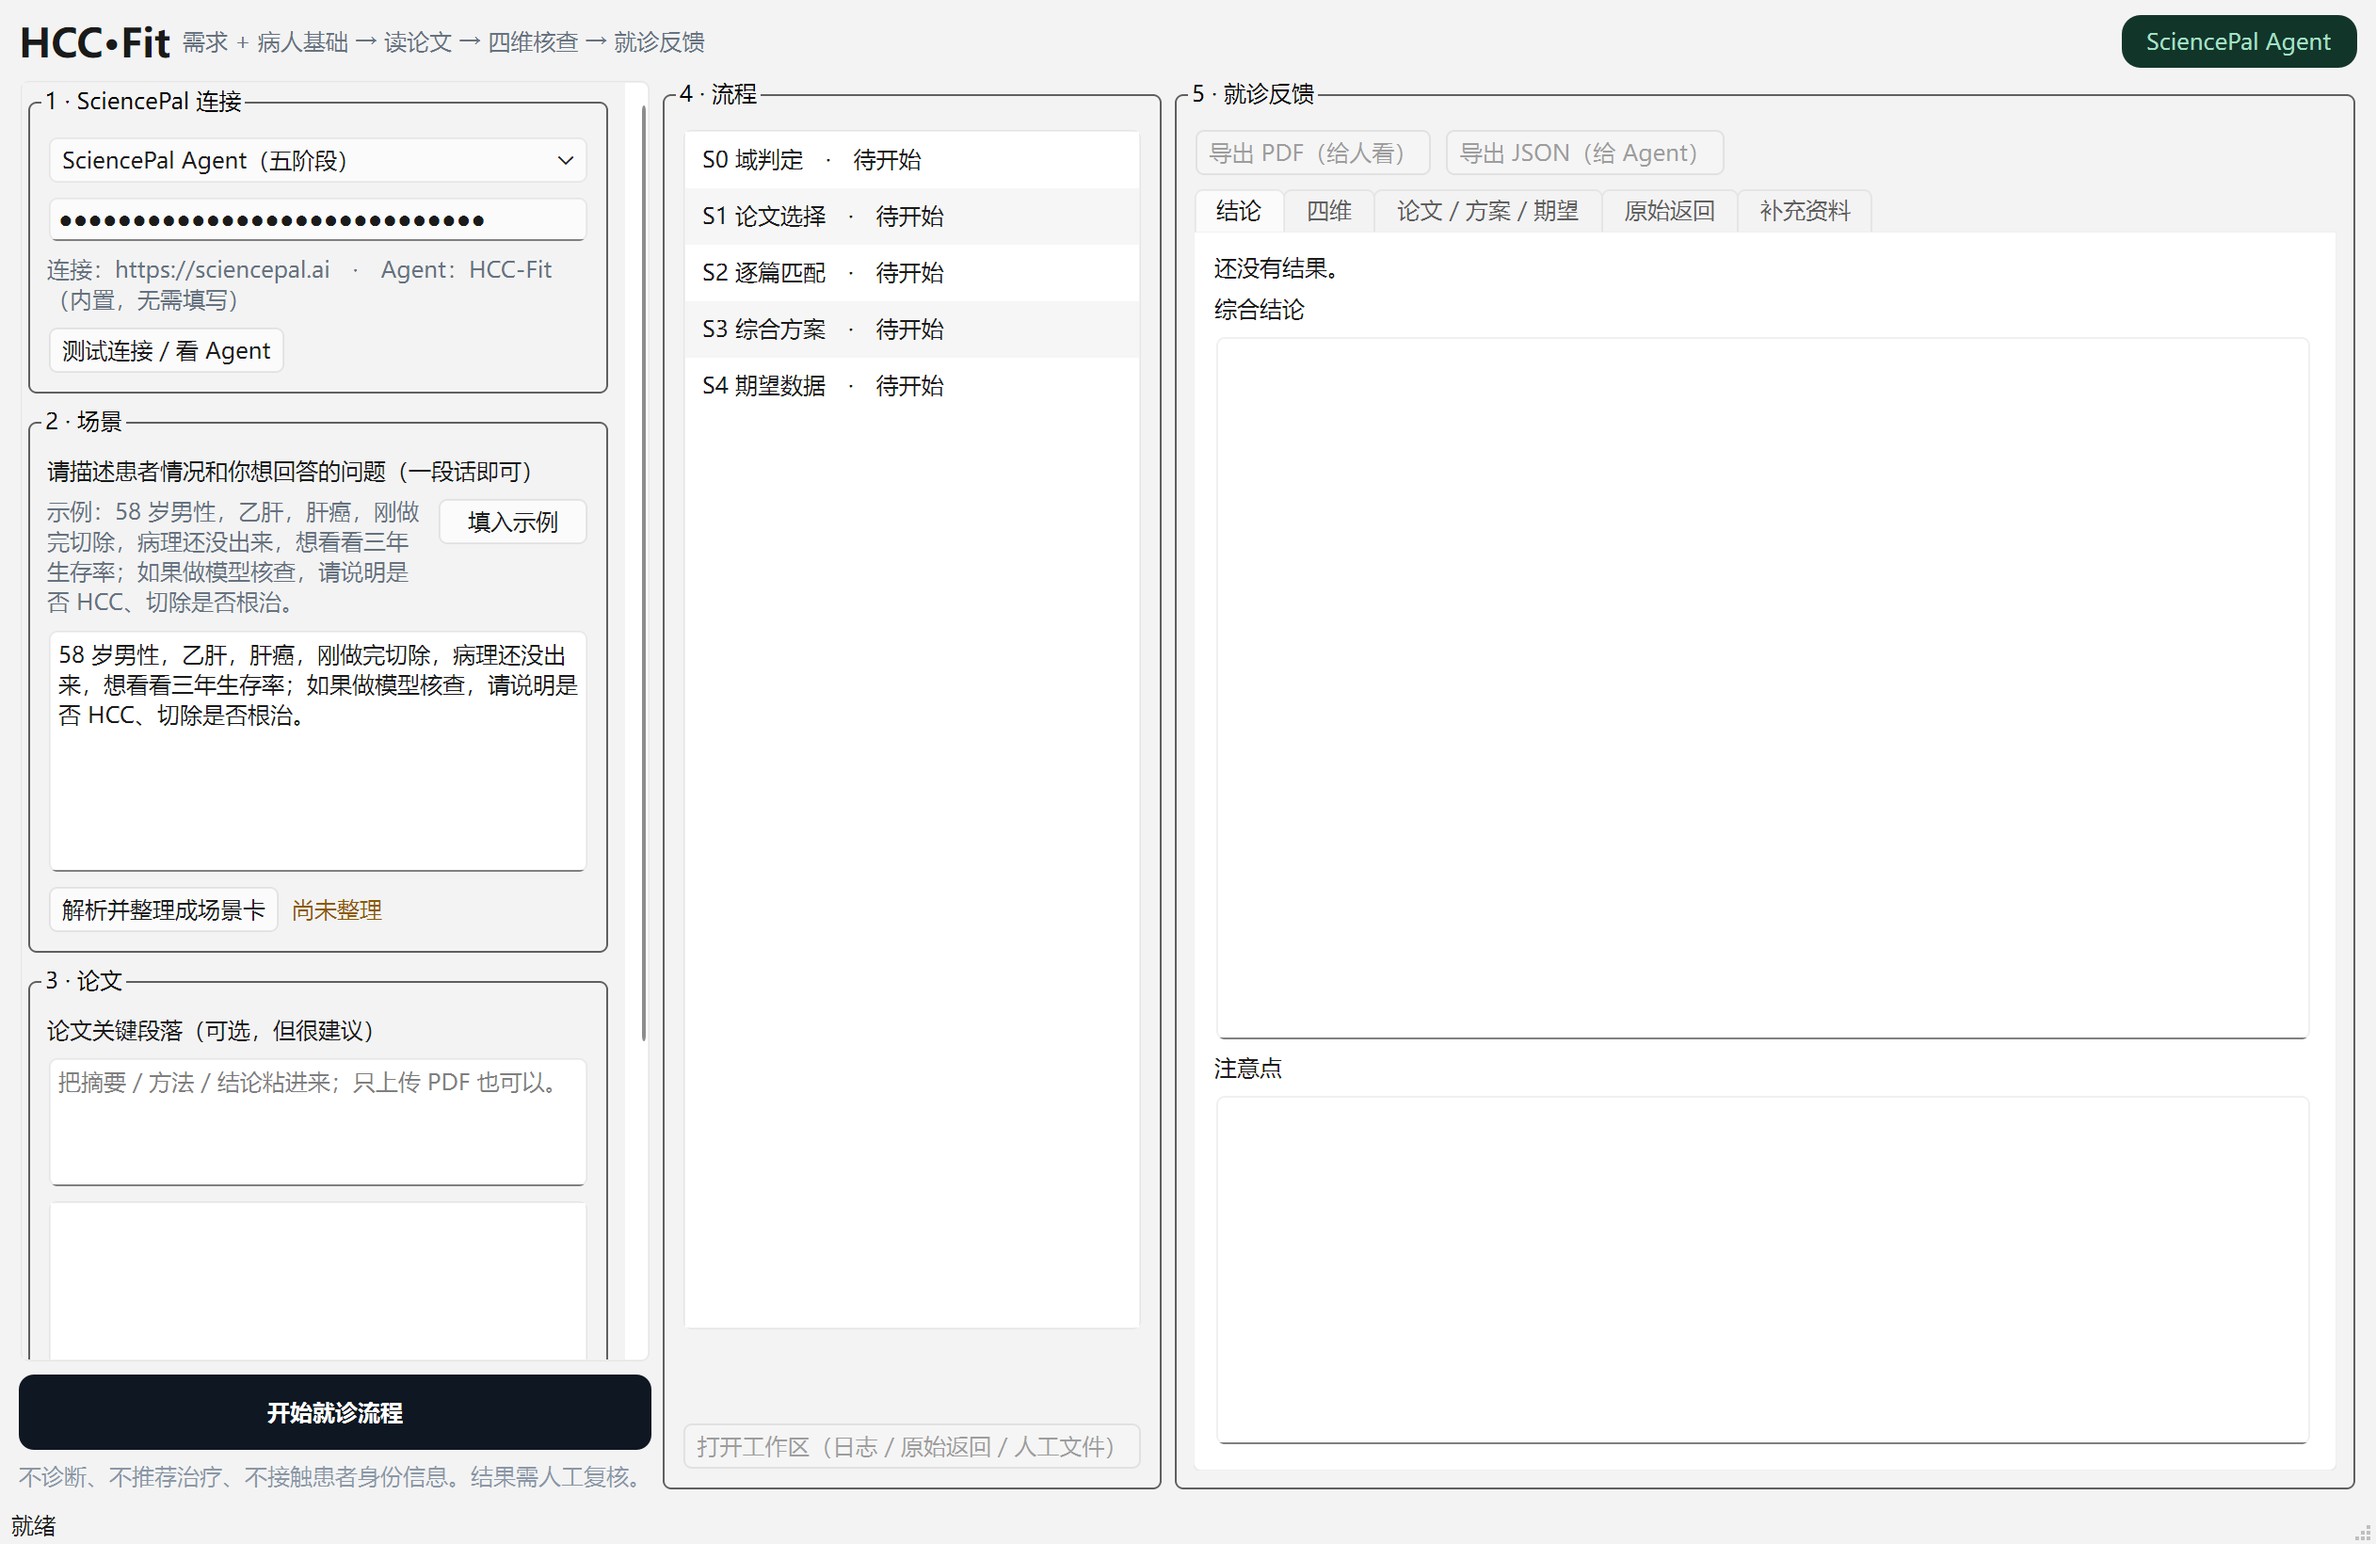
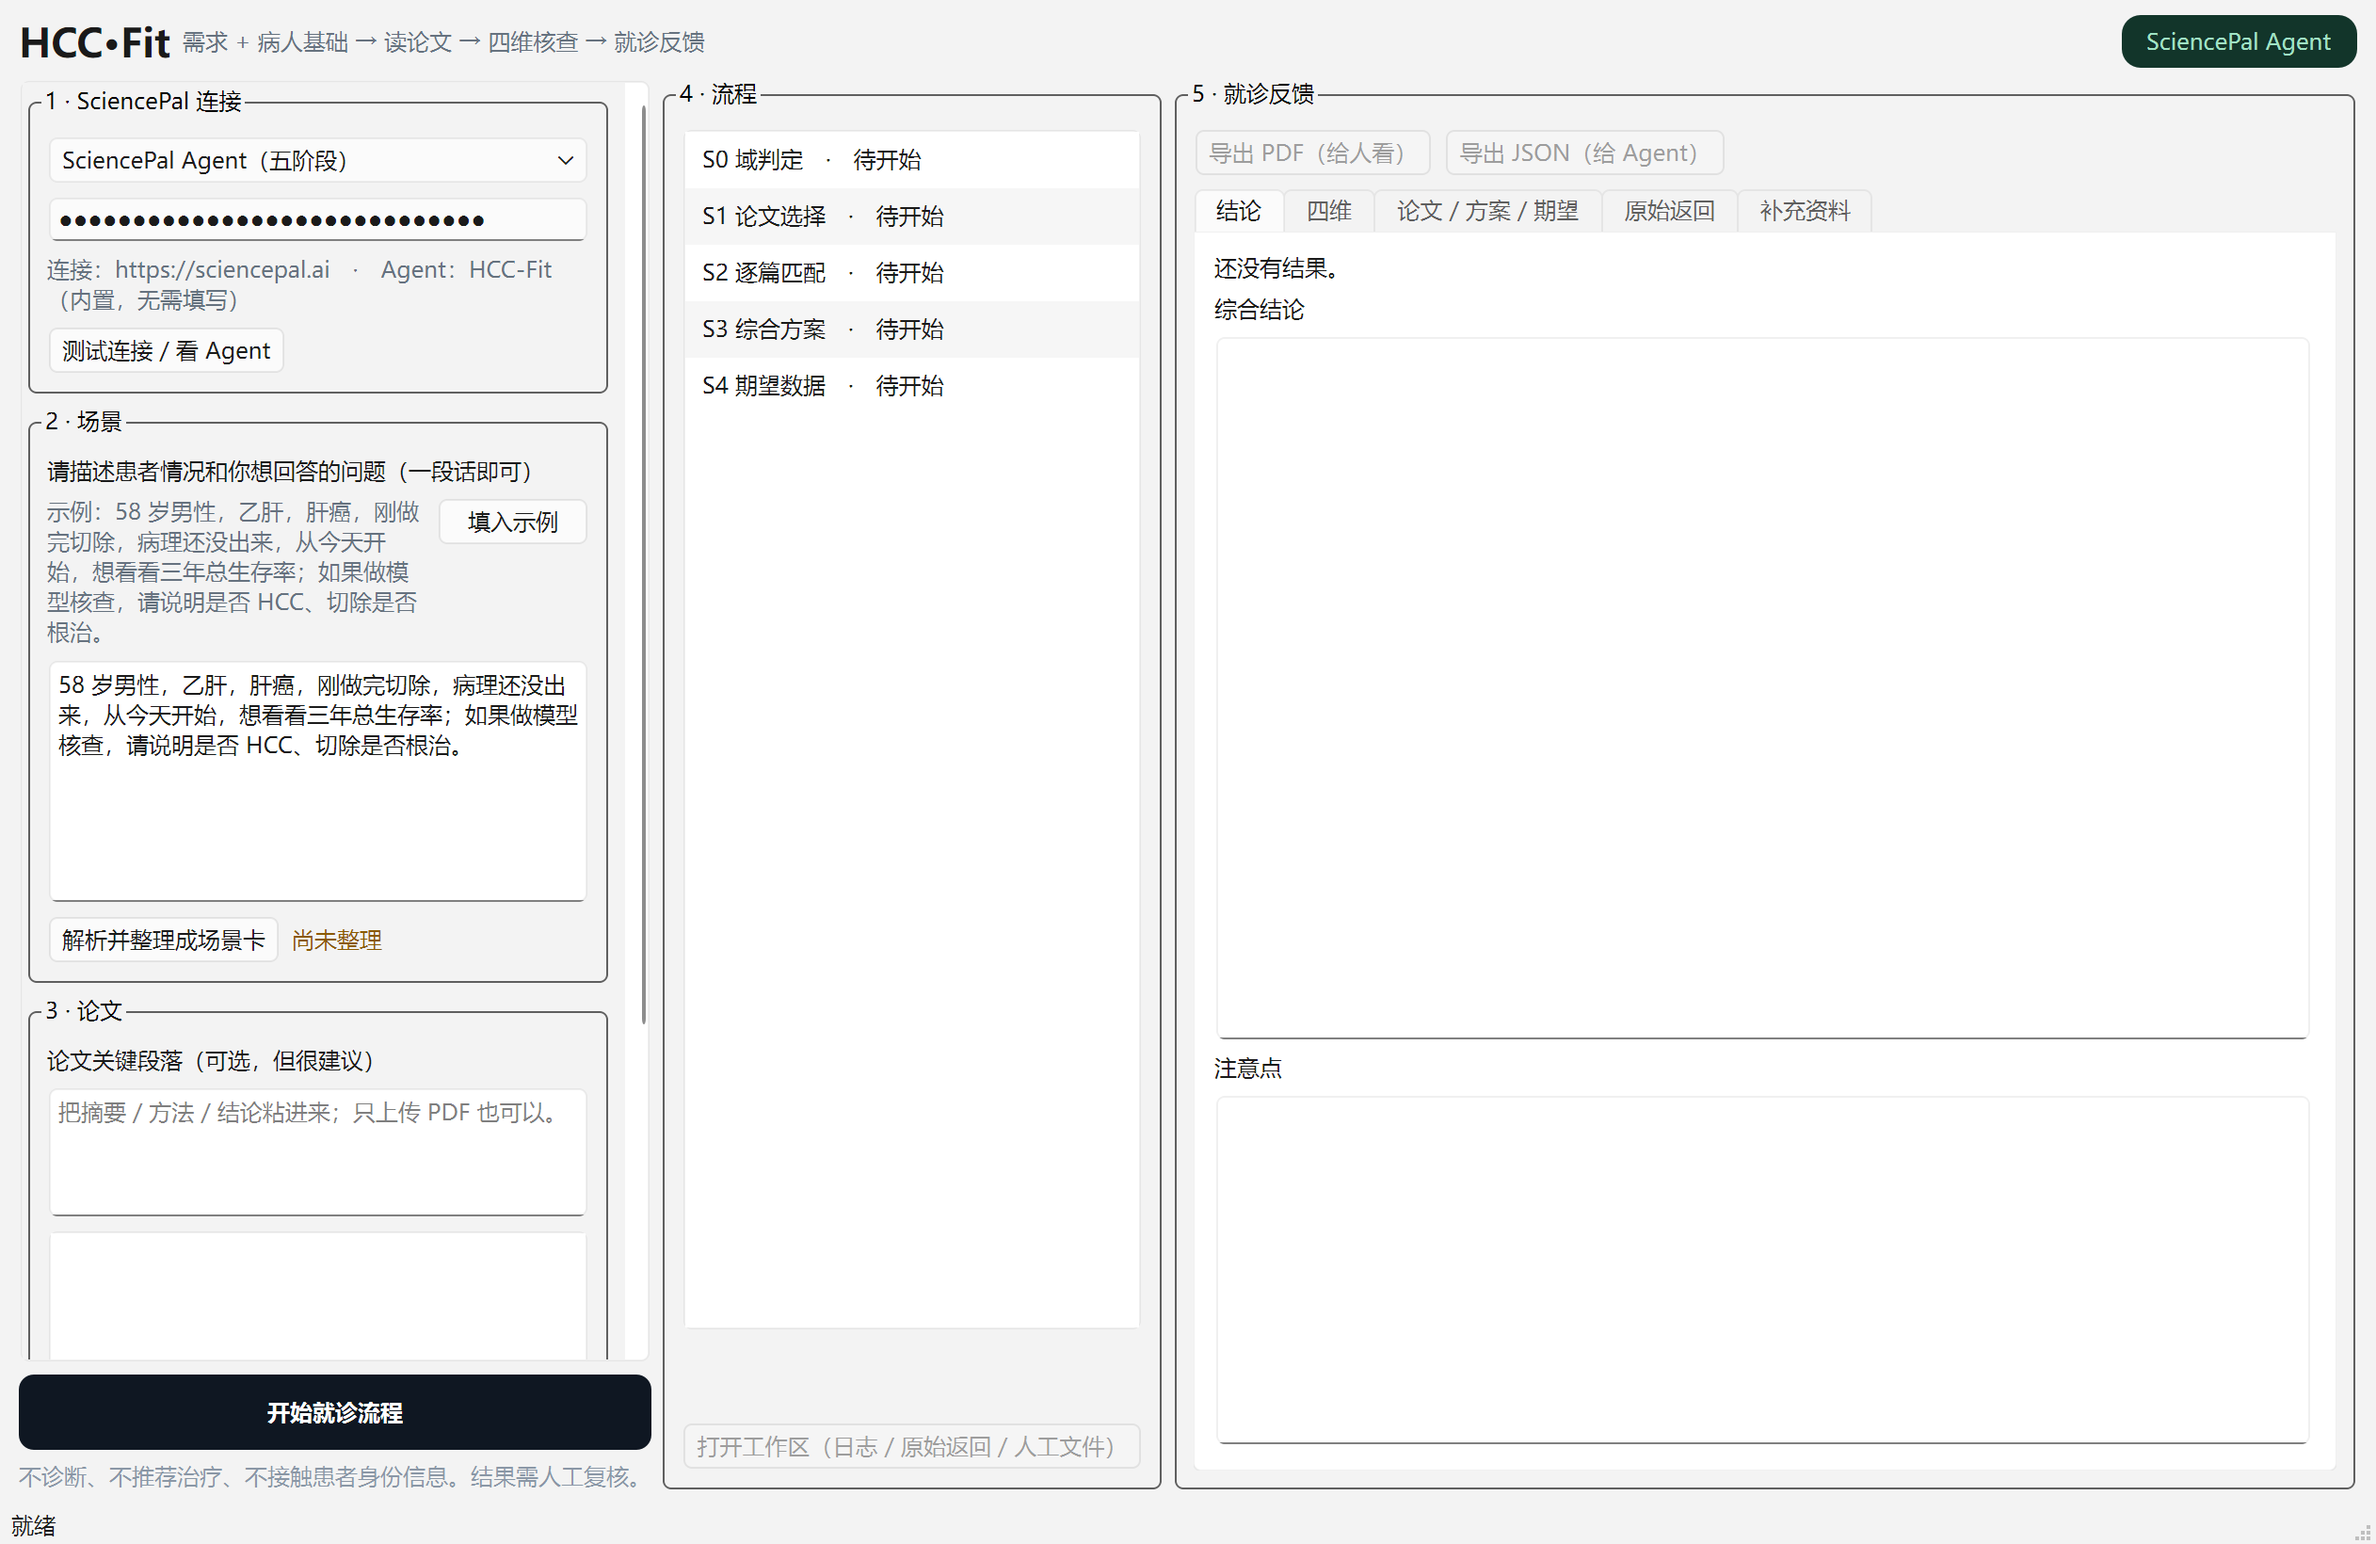
feat(input): 场景示例改为新版；修复“是否 HCC”被当成诊断
- 场景示例与“填入示例”改为：
  58 岁男性，乙肝，肝癌，刚做完切除，病理还没出来，从今天开始，想看看三年总生存率；
  如果做模型核查，请说明是否 HCC、切除是否根治。
- 新增 QUESTION_CUES：请说明/是否/有无/请确认 等“待确认表述”不再把疾病归一为 HCC，
  改为 ambiguous 并保留追问（此前示例句会被误判成已确认 HCC，跳过疾病追问）
- 测试：临床例子 +1（官方示例：只问疾病、起点今天、范围36、OS足够）→ 6/6；
  test_modes 断言示例文本与“填入示例”行为
- 截图/README/口述例子文档同步；重建 one-dir 并复验 --smoke

Changed region(s): [[0.0, 0.3421, 0.2472, 0.4976], [0.0, 0.5598, 0.2163, 0.7463]]

diff --git a/desktop/app/main_window.py b/desktop/app/main_window.py
@@ -162,8 +162,7 @@ class MainWindow(QMainWindow):
         sv.addWidget(QLabel("请描述患者情况和你想回答的问题（一段话即可）"))
         ex_row = QHBoxLayout()
         self.scene_example = QLabel(
-            "示例：58 岁男性，乙肝，肝癌，刚做完切除，病理还没出来，想看看三年生存率；"
-            "如果做模型核查，请说明是否 HCC、切除是否根治。")
+            "示例：58 岁男性，乙肝，肝癌，刚做完切除，病理还没出来，从今天开始，想看看三年总生存率；如果做模型核查，请说明是否 HCC、切除是否根治。")
         self.scene_example.setWordWrap(True)
         self.scene_example.setTextInteractionFlags(Qt.TextInteractionFlag.TextSelectableByMouse)
         self.scene_example.setStyleSheet("color:#66727f;font-size:9pt;")
@@ -519,8 +518,7 @@ class MainWindow(QMainWindow):
     # ---------------- 单输入场景卡 ----------------
     def _fill_scene_example(self):
         self.scene_input.setPlainText(
-            "58 岁男性，乙肝，肝癌，刚做完切除，病理还没出来，想看看三年生存率；"
-            "如果做模型核查，请说明是否 HCC、切除是否根治。")
+            "58 岁男性，乙肝，肝癌，刚做完切除，病理还没出来，从今天开始，想看看三年总生存率；如果做模型核查，请说明是否 HCC、切除是否根治。")
 
     def _on_scene_text_changed(self):
         if self._setting_scene:

diff --git a/desktop/app/input_normalization.py b/desktop/app/input_normalization.py
@@ -54,6 +54,7 @@ STATUS_LABEL = {
 
 HISTORY_CUES = ("既往", "曾", "以前", "病史", "多年前", "之前")
 SUSPECT_CUES = ("疑似", "考虑", "待排", "可能", "不除外", "疑为", "高度怀疑")
+QUESTION_CUES = ("是否", "是不是", "有无", "请确认", "需确认", "是否明确")
 NEG_CUES = ("非", "不是", "排除", "未见", "否认", "无", "未发现")
 
 _CN_NUM = {"一": 1, "二": 2, "两": 2, "三": 3, "四": 4, "五": 5,
@@ -440,6 +441,8 @@ class RuleExtractor:
                 return "historical"
             if _has(SUSPECT_CUES, prefix):
                 return "suspected"
+            if re.search(r"(?:%s)\s*$" % "|".join(QUESTION_CUES), prefix):
+                return "ambiguous"          # “请说明是否 HCC”不是诊断
             if _negated_prefix(prefix):
                 return "negated"
         return term.auto_status
@@ -526,6 +529,9 @@ class RuleExtractor:
                 f.flags.append("历史诊断不等于本次")
             elif status == "negated":
                 self._set(f, c, "negated", normalized="HCC 被否定")
+            elif status == "ambiguous":
+                self._set(f, c, "ambiguous", normalized="HCC（待确认）")
+                f.flags.append("原话是“是否 HCC”这类待确认表述")
             else:
                 self._set(f, c, "normalized", normalized="HCC")
             # 同时出现“肝癌”上位词：保留提示，不改变 HCC 结论

diff --git a/desktop/tests/test_clinical_examples.py b/desktop/tests/test_clinical_examples.py
@@ -90,12 +90,28 @@ def case_5():
     return "HCC/术后1月/OS 足够 → 只问预测范围"
 
 
+
+def case_6_official_example():
+    text = ("58 岁男性，乙肝，肝癌，刚做完切除，病理还没出来，从今天开始，"
+            "想看看三年总生存率；如果做模型核查，请说明是否 HCC、切除是否根治。")
+    s = RULES.extract(text)
+    # “请说明是否 HCC”是待确认表述，不能直接归一为 HCC
+    assert s.fields["disease"].status == "ambiguous", s.fields["disease"]
+    assert s.fields["start_point"].normalized == "今天"
+    assert s.fields["horizon"].normalized == "36个月"
+    assert field_sufficient(s, "outcome") is True          # “总生存率”=明确 OS
+    assert {q.id for q in s.followups} == {"q_disease"}
+    assert "总生存" in s.fields["intent"].normalized
+    return "官方示例：是否 HCC 不被当成诊断；只问疾病"
+
+
 def main():
     check("例1 术后2年看复发", case_1)
     check("例2 刚开完刀+1月复查", case_2)
     check("例3 大小/癌栓/两个问题", case_3)
     check("例4 BCLC B 期", case_4)
     check("例5 总生存期", case_5)
+    check("官方示例（是否 HCC）", case_6_official_example)
     ok = sum(1 for r in RESULTS if r)
     print("\n%d/%d 通过" % (ok, len(RESULTS)))
     return 0 if ok == len(RESULTS) else 1

diff --git a/desktop/tests/test_modes.py b/desktop/tests/test_modes.py
@@ -63,6 +63,10 @@ def case_stub_still_works_for_tests():
     assert any("SciencePal 连接" in t for t in titles), titles
     assert not any("大脑" in t for t in titles), titles
     assert hasattr(win, "split_papers"), "缺少逐篇发送复选框"
+    assert "从今天开始" in win.scene_example.text(), win.scene_example.text()
+    assert "总生存率" in win.scene_example.text(), win.scene_example.text()
+    win._fill_scene_example()
+    assert "从今天开始" in win.scene_input.toPlainText()
     assert win.mode.count() == 2, win.mode.count()
     win.select_mode("stub")           # 仅自动化：临时加入下拉框
     assert win.current_mode() == "stub"

diff --git a/tools/capture_main_window.py b/tools/capture_main_window.py
@@ -23,8 +23,7 @@ def main():
     win = MainWindow()
     win.key.setText("sp_live_demo_abcdefghijklmnop")   # 只用于截图，不落盘
     win.scene_input.setPlainText(
-        "58 岁男性，乙肝，肝癌，刚做完切除，病理还没出来，想看看三年生存率；"
-        "如果做模型核查，请说明是否 HCC、切除是否根治。")
+        "58 岁男性，乙肝，肝癌，刚做完切除，病理还没出来，从今天开始，想看看三年总生存率；如果做模型核查，请说明是否 HCC、切除是否根治。")
     win.resize(1420, 900)
     win.show()
     app.processEvents()

diff --git a/HANDOFF.md b/HANDOFF.md
@@ -358,6 +358,7 @@ curl http://127.0.0.1:8080/healthz
 | **逐篇进度行** | 流程面板支持动态子行：逐篇事件用 `match#i` / `hcc#i`，插在父行之后，各自显示“运行中/完成 · tier · 耗时”；每次启动前重建流程行，避免上次残留；新增 3 项测试 |
 | **口述例子回归** | 用 5 个临床例子检验并补齐：术后时长支持年/月/周/天与“一个月复查”；“刚开完刀/根治性手术”映射切除+术后；额外抽取肿瘤大小、癌栓/镜下癌栓、BCLC、分期范围；意图改为疑问句评分并保留并列问题；“总的生存期”判为明确 OS。新增 test_clinical_examples（5 项） |
 | **预测范围追问** | 缺 `horizon` 时新增 `q_horizon`（1 年/3 年/5 年/自定义/不知道）；场景卡把答案写入 horizon（36个月等），自定义“2 年”也能换算；新增 2 项测试（规则 + UI） |
+| **官方示例更新** | 场景示例改为“58 岁男性…从今天开始…三年总生存率…请说明是否 HCC…”；同时修正“是否 HCC”被误当诊断的问题（待确认表述→疾病 ambiguous 并追问）；新增示例回归 |
 | **接入文档** | 新增 `docs/HCC-Fit_SciencePal接入与检索说明_2026-10-30.md`（官方 8 条规则、fast vs balanced、五阶段、错误码、本次修复） |
 | **测试** | Router 新增 `test_agent_client.py`（8 项，全离线）→ 19 项；桌面新增 `test_sciencepal_client.py`（4 项）→ 9 个脚本 |
 

diff --git a/docs/HCC-Fit_口述例子检验_2026-10-30.md b/docs/HCC-Fit_口述例子检验_2026-10-30.md
@@ -33,6 +33,12 @@
 | 意图被“现在看看复查的情况都挺好的”这类陈述抢走 | 改为**疑问句评分**：`？/吗`、时间-结局词加分，状态陈述降权；并列问题（复发 + 生存）都保留 |
 | “总的生存期”仍被追问 OS/复发 | 判为**明确 OS**，不再追问结局 |
 
+## 2.1 官方示例（场景示例框）
+
+> 58 岁男性，乙肝，肝癌，刚做完切除，病理还没出来，从今天开始，想看看三年总生存率；如果做模型核查，请说明是否 HCC、切除是否根治。
+
+提取：疾病**待确认**（“请说明是否 HCC”是待确认表述，不是诊断）、治疗切除、阶段术后/病理未取得、起点**今天**、范围**36 个月**、结局 **总生存 OS（足够）**；追问只有**疾病**一项。
+
 ## 3. 仍存在的边界（有意保留）
 
 - **“多长时间/多久”没有具体年数** → 不猜数字，改为**追问预测范围**（1 年 / 3 年 / 5 年 / 自定义 / 不知道）；回答后写入 `horizon`（如 `36个月`）。

diff --git a/desktop/README.md b/desktop/README.md
@@ -48,7 +48,8 @@ python main.py
   - “刚开完刀 / 根治性手术 / 根治性切除”算作切除 + 术后；
   - 从**已有资料**里额外抠出：肿瘤大小（`10 公分`）、血管侵犯/癌栓（含“镜下癌栓”）、BCLC 分期（`巴塞罗那分期 B 期`）、分期范围（`0 到 A 期`）；
   - 意图按“疑问句 + 时间/结局词”打分（状态陈述如“复查都挺好”降权），同时问复发与生存时**两句都保留**；
-  - “总的生存期”视为明确 OS，不再追问结局；
+  - “总的生存期/总生存率”视为明确 OS，不再追问结局；
+  - “请说明是否 HCC / 是否根治”这类**待确认表述**不会被当成诊断（疾病仍标待确认）；
 - **不再有 AI 候选层**（2026-10-30 按用户要求移除 `app/ai_extract.py` 及界面入口）；
 - Agent v0.6 不修改，确认后的场景卡映射为原 `scenario`；
 - 输入会话存 `AppLocalData/inputs/<input_id>.json`，原话不覆盖。
